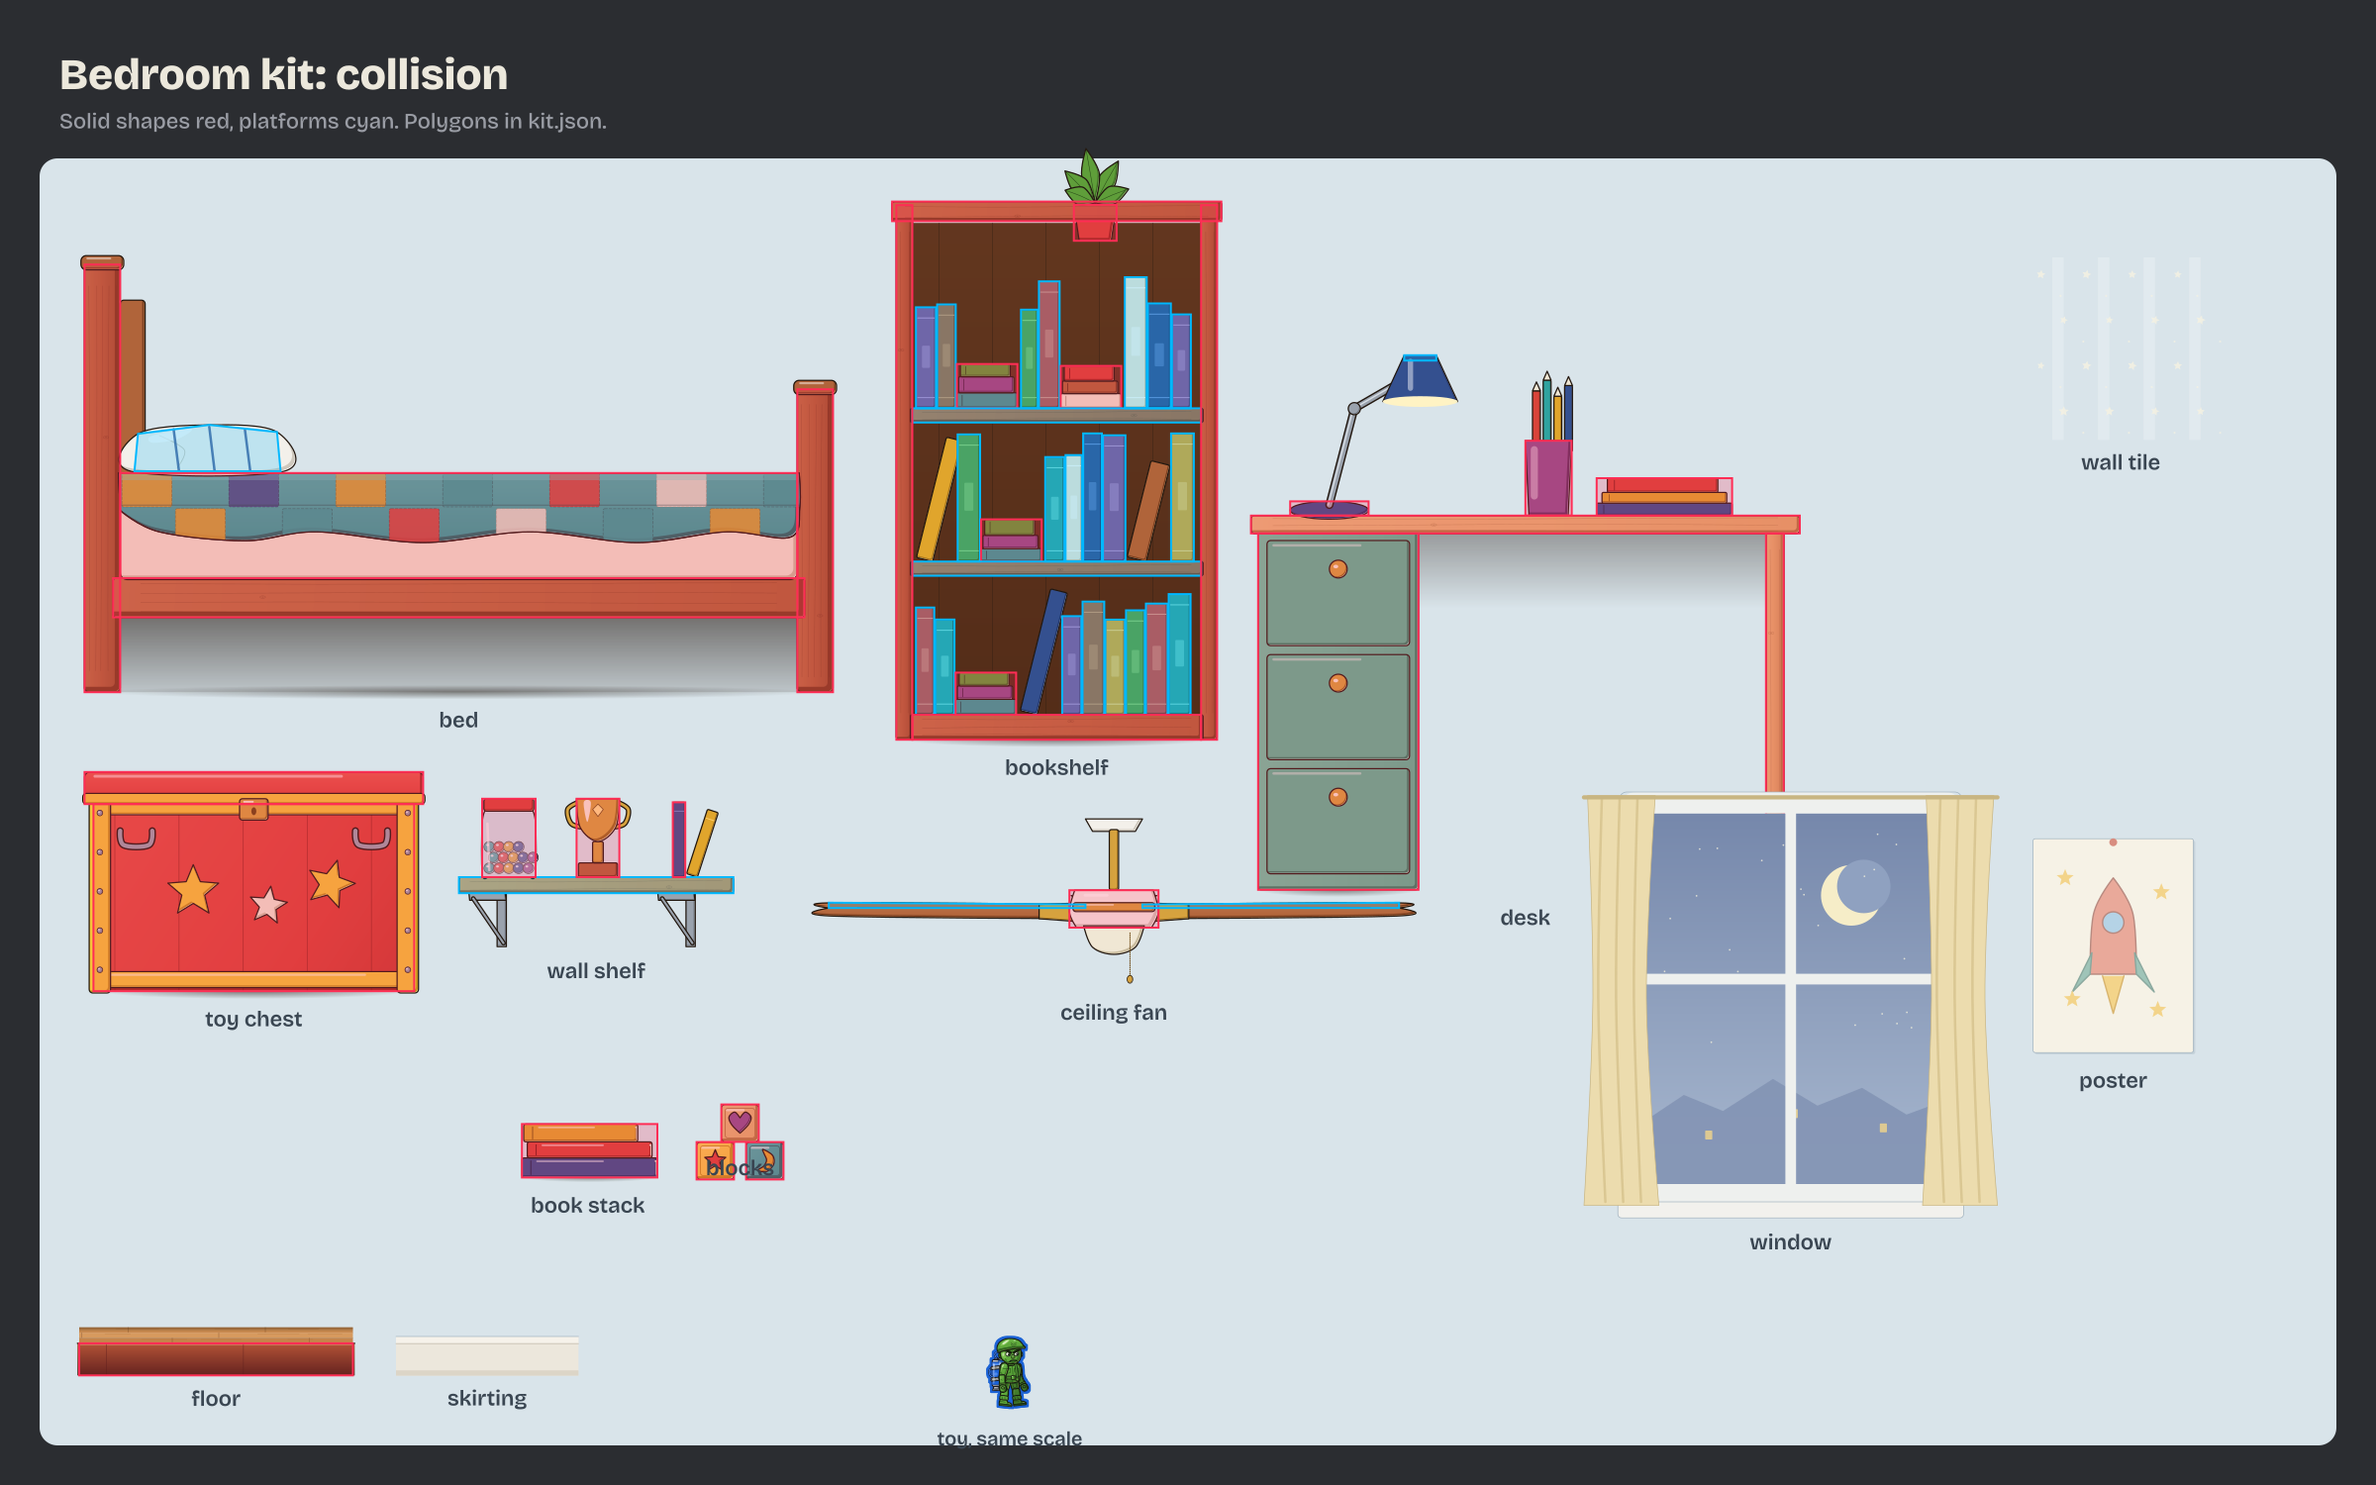
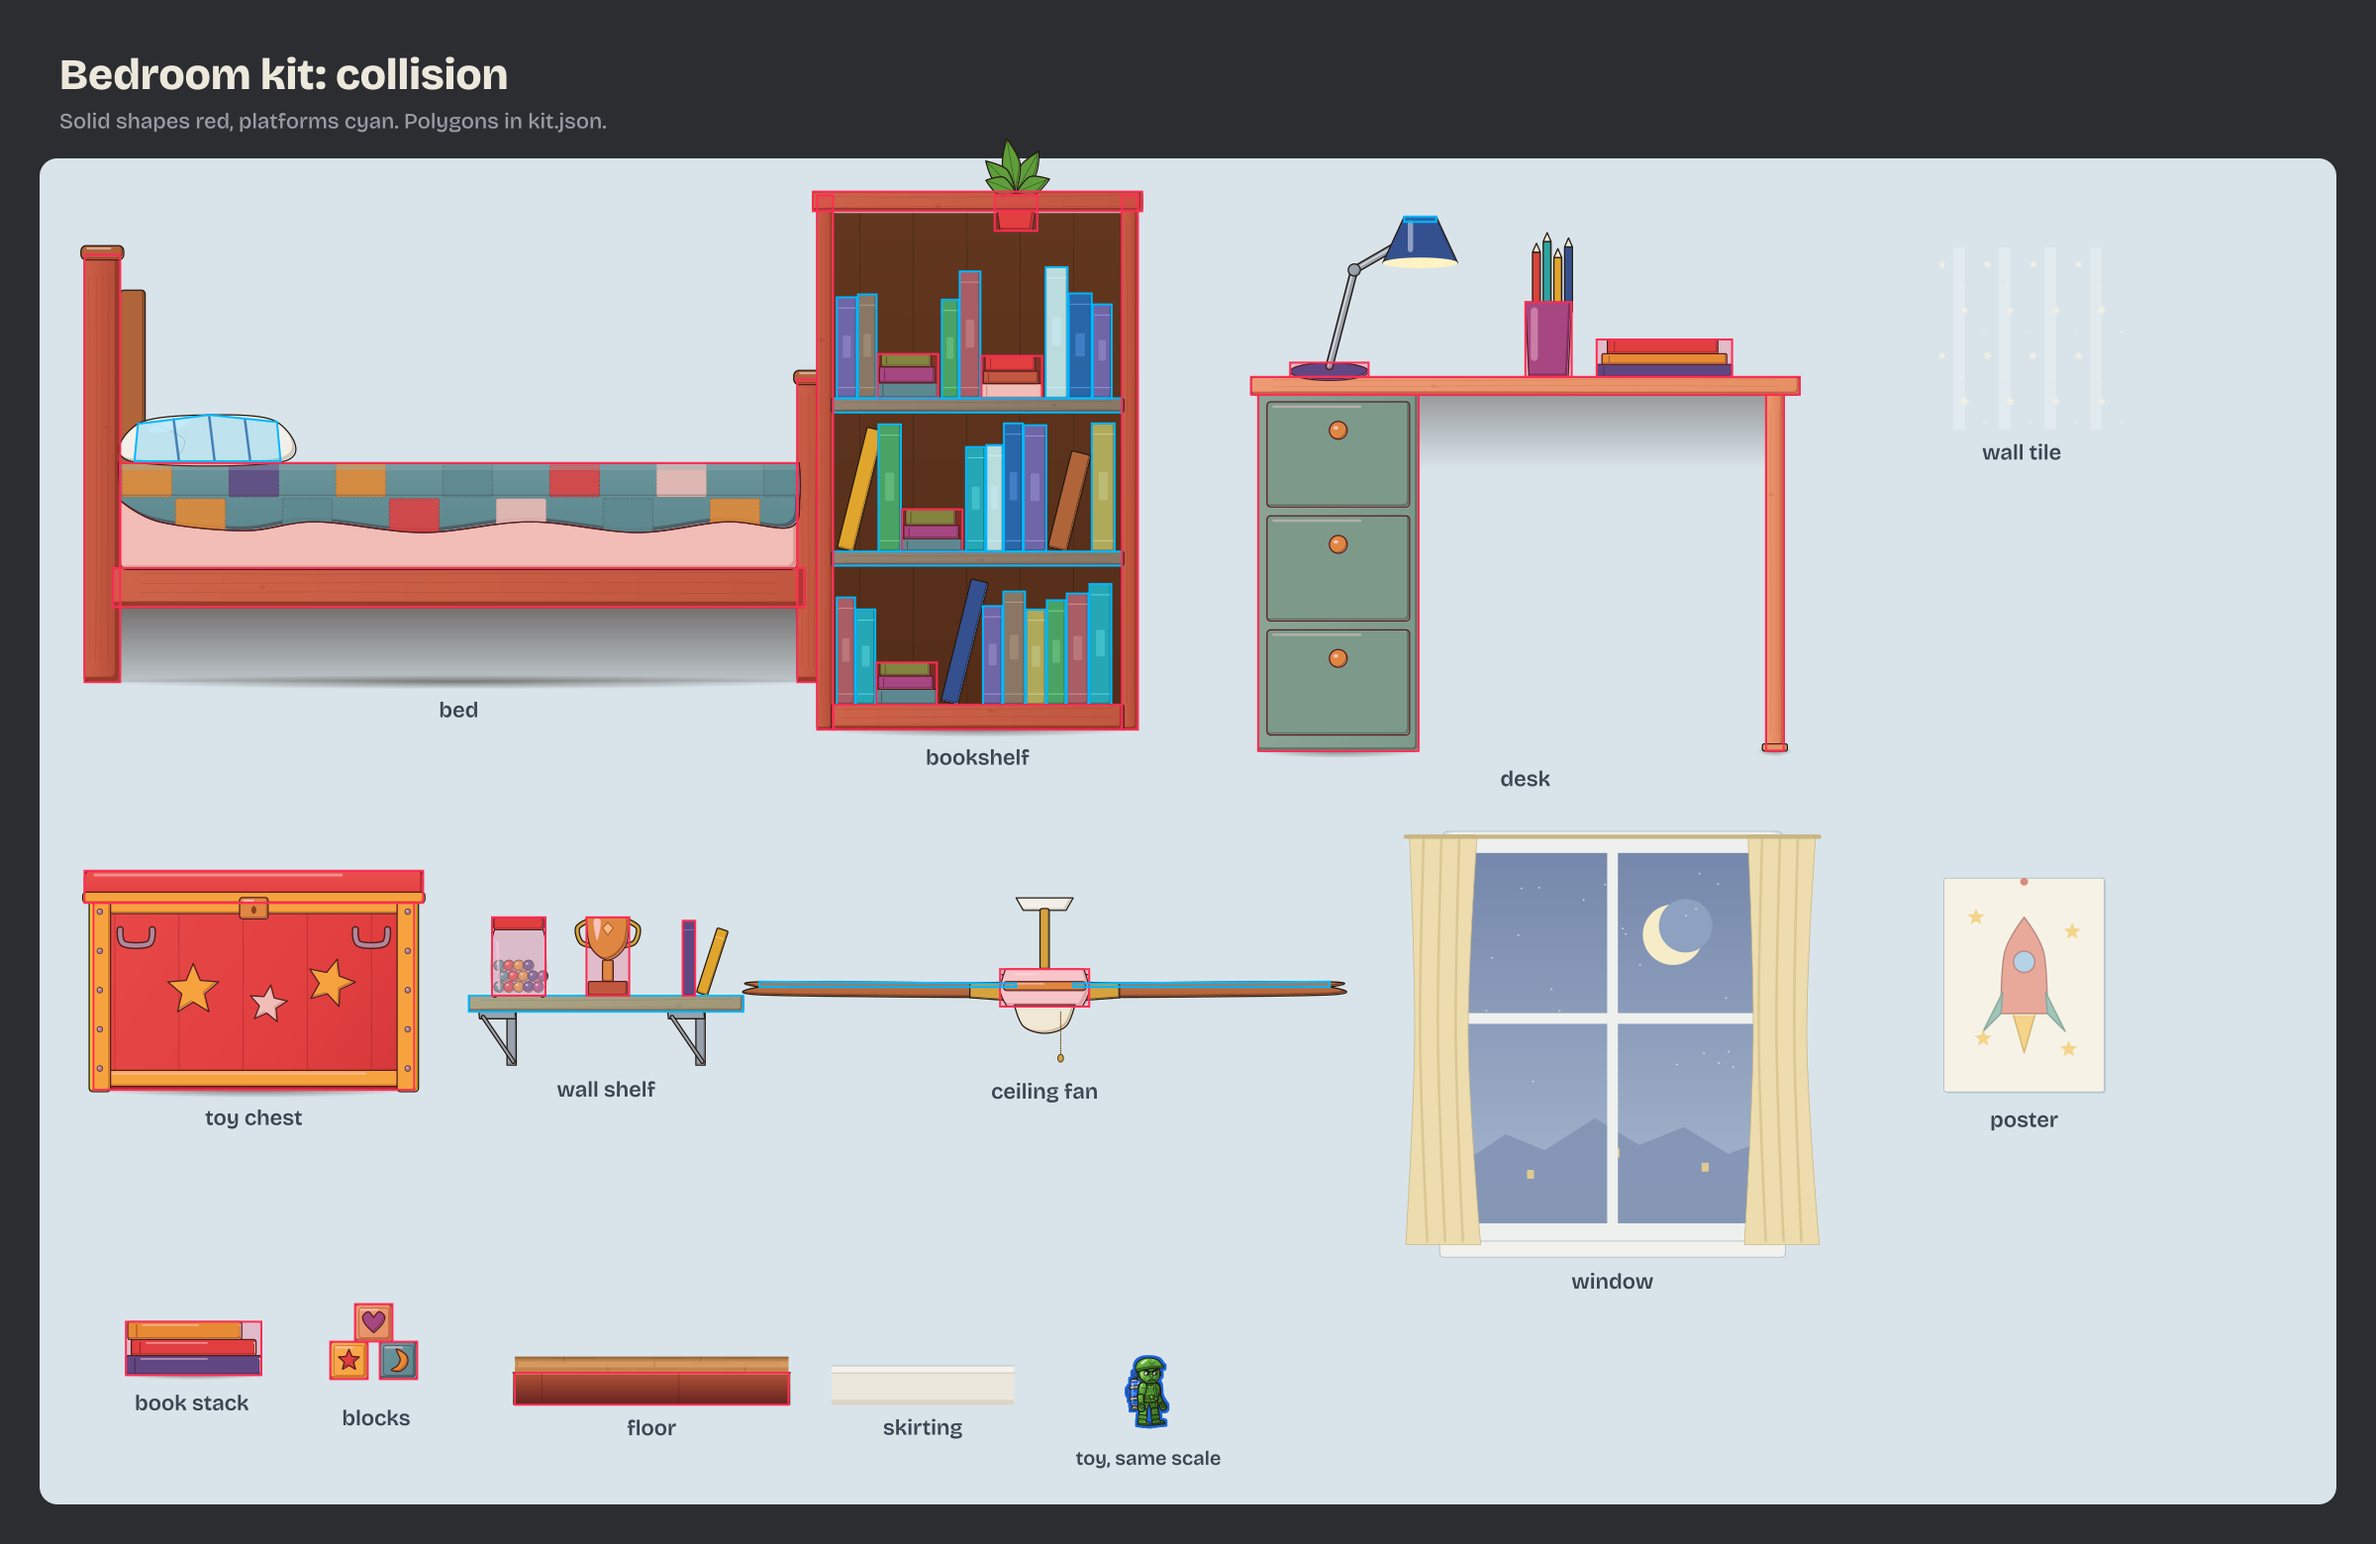
fix(art): kit sheet layout

diff --git a/art/tools/sheets.py b/art/tools/sheets.py
@@ -187,19 +187,19 @@ def weapons_sheet(out):
 # ---------------------------------------------------------------- kit
 
 def kit_sheet(out, collision=False):
-    W, H = 2400, 1500
+    W, H = 2400, 1560
     k = frame.kit
     sub = ("Solid shapes red, platforms cyan. Polygons in kit.json." if collision else
            "Playable props: saturated, shaded, inked like the toys. Backdrop: pale, soft, no ink. Scale x0.18.")
     parts = [title(60, 90, "Bedroom kit" + (": collision" if collision else ""), sub)]
     parts.append(c.raw(f'<rect x="40" y="160" width="{W - 80}" height="{H - 200}" rx="18" fill="#d9e4ea"/>'))
     s = 0.18
-    layout = [("bed", 80, 260), ("bookshelf", 900, 200), ("desk", 1260, 330), ("toy_chest", 80, 760),
-              ("wall_shelf", 460, 760), ("ceiling_fan", 830, 820), ("book_stack", 520, 1130),
-              ("block_star", 700, 1150), ("block_moon", 750, 1150), ("block_heart", 725, 1112),
-              ("floor", 80, 1340), ("skirting", 400, 1350), ("window", 1600, 800), ("poster", 2050, 840),
-              ("wall_tile", 2050, 260)]
-    labels = {"block_star": None, "block_moon": None, "block_heart": "blocks"}
+    layout = [("bed", 80, 250), ("bookshelf", 820, 190), ("desk", 1260, 190), ("wall_tile", 1950, 250),
+              ("toy_chest", 80, 860), ("wall_shelf", 470, 880), ("ceiling_fan", 760, 900), ("window", 1420, 840),
+              ("poster", 1960, 880), ("book_stack", 120, 1330), ("block_star", 330, 1352),
+              ("block_moon", 380, 1352), ("block_heart", 355, 1314), ("floor", 520, 1370), ("skirting", 840, 1380)]
+    labels = {"block_star": None, "block_moon": None, "block_heart": None}
+    parts.append(tag(380, 1440, "blocks", 22, "#3a4652"))
     for name, x, y in layout:
         e = k(name)
         path = os.path.join(frame.KIT, e["file"])
@@ -214,8 +214,8 @@ def kit_sheet(out, collision=False):
         if lab:
             parts.append(tag(x + e["size"][0] * s / 2, y + e["size"][1] * s + 30, lab, 22, "#3a4652"))
     # a toy for scale
-    parts.append(c.toy("stand", root=(1020, 1420), team="blue", scale=s, outline=TEAM["blue"]))
-    parts.append(tag(1020, 1460, "toy, same scale", 20, "#3a4652"))
+    parts.append(c.toy("stand", root=(1160, 1440), team="blue", scale=s, outline=TEAM["blue"]))
+    parts.append(tag(1160, 1480, "toy, same scale", 20, "#3a4652"))
     c.render_add(parts, [], W, H, out, bg=BG)
 
 
